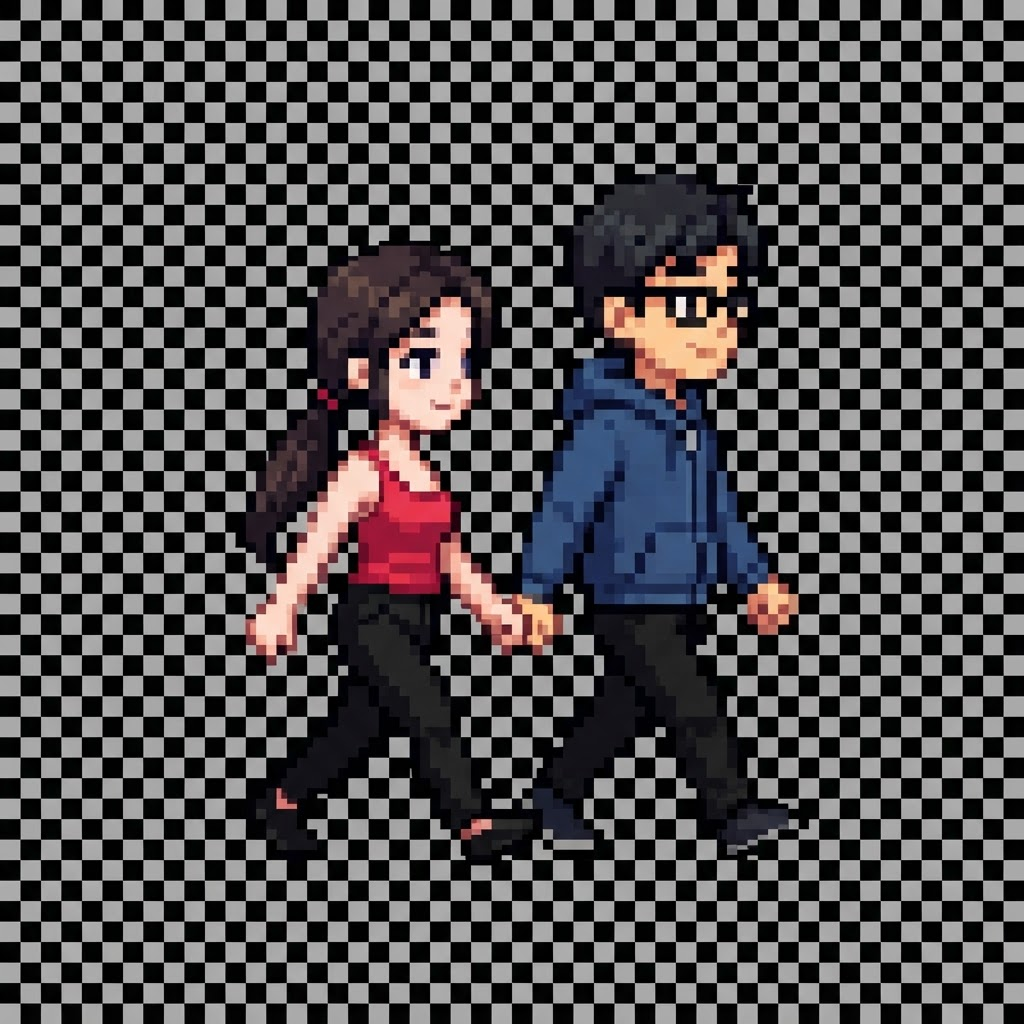
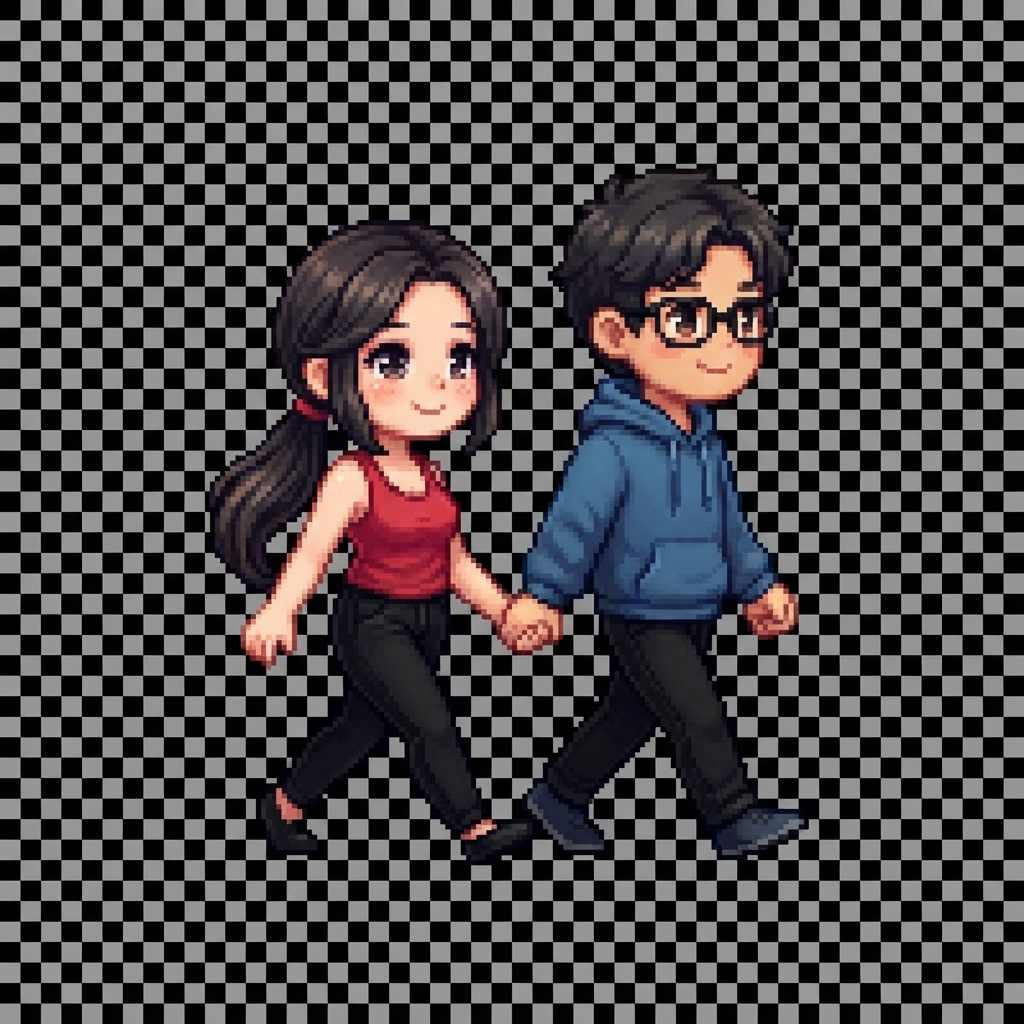
feat(D3): 接入 couple_walk_a 单帧走路 sprite (细腻可爱像素风)
- HTML: .mall-couple 内两张 idle 立绘 → 单张 couple_walk_a.png
- CSS: 高度 32%→38% (走路 sprite 需要更多空间), image-rendering: pixelated
- 备份原 walk_a v1 供后续对比

diff --git a/index.html b/index.html
@@ -1264,19 +1264,18 @@
   /* 两人小模型 */
   .mall-couple {
     position: absolute;
-    bottom: 20%;
-    height: 32%;
-    display: flex;
-    gap: 0.4vw;
+    bottom: 18%;
+    height: 38%;
+    display: block;
     transform: translateX(0);
     transition: transform 0.05s linear;
     pointer-events: none;
     filter: drop-shadow(0 4px 6px rgba(0,0,0,0.4));
   }
-  .mall-couple img {
+  .mall-couple-img {
     height: 100%;
     width: auto;
-    image-rendering: auto;
+    image-rendering: pixelated;
   }
   /* 玩家的判定圈（跟随鼠标 + 被强制左飘） */
   .mall-cursor {
@@ -1641,8 +1640,7 @@
       </div>
       <!-- 两人小模型（跟着走） -->
       <div class="mall-couple" id="mall-couple">
-        <img class="mall-heroine" src="assets/characters/heroine_idle.png" alt="女主" />
-        <img class="mall-hero"    src="assets/characters/hero_idle.png"    alt="男主" />
+        <img class="mall-couple-img" src="assets/couple_walk_a.png" alt="两人走路" />
       </div>
     </div>
     <!-- 玩家用鼠标控制的判定圈：会被强制左飘 -->

diff --git a/scripts/gen_d3_mall_assets.py b/scripts/gen_d3_mall_assets.py
@@ -160,39 +160,59 @@ def gen_bg_bedroom_empty():
     )
 
 def gen_couple_walk(frame: str):
-    """走路循环帧（侧视图，朝左走）。frame='a' 左脚在前；'b' 右脚在前。
-       'a' 是原始基准帧（用户已认可），'b' 用 'a' 作参考保持一致性。"""
+    """走路（侧视图，朝左走）。当前只用 frame='a' 做单帧静态版。"""
     if frame == 'a':
         gen(
             prompt=(
-                "Two chibi pixel-art game characters walking side by side in SIDE VIEW, "
-                "BOTH FACING LEFT (moving to the left of the frame). Full body visible. "
+                "Reproduce the SAME TWO CHARACTERS as in the reference image (same girl in cherry-red tank "
+                "top with low ponytail, same boy in blue hoodie with black-framed glasses, same outfits, "
+                "same colors, same proportions, same walking-together side view facing LEFT). "
                 ""
-                "CHARACTER A (LEFT, in FRONT — closer to camera): "
-                "A cute young girl with a long low ponytail (dark brown hair with subtle highlights). "
-                "Wearing a CHERRY-RED tank top (vivid cherry red — not wine, not pink). "
-                "Black long pants. No glasses. Slender, chibi proportions. "
-                "Pretty face with big anime eyes, soft pink blushing cheeks, tiny cute smile. "
+                "But upgrade the art quality significantly: "
+                "- HIGHER resolution pixel art with much finer detail (denser pixel grid, softer anti-aliasing) "
+                "- SOFTER, ROUNDER, CUTER face designs — bigger sparkly anime-style eyes, gentle rounded cheeks "
+                "  with tiny pink blush, small warm smiles "
+                "- More refined hair strand detail (subtle highlights and flowing shape) "
+                "- Cleaner cloth folds on the tank top and hoodie "
+                "- Warmer, more saturated color palette while keeping colors identical to reference "
+                "  (cherry-red tank, medium blue hoodie, black pants) "
+                "- Chibi proportions slightly more stylized (~4-4.5 heads tall) — cute and heartwarming "
                 ""
-                "CHARACTER B (RIGHT, one step BEHIND): "
-                "A cute young man in a BLUE HOODIE (hood down, unzipped a bit), BLACK pants, "
-                "BLACK-FRAMED GLASSES, short dark hair with slight fluff. "
-                "Slightly taller than the girl. Warm friendly smile. "
+                "Both characters walking side by side facing LEFT, mid-stride, "
+                "girl slightly in front (closer to camera), boy one step behind on the right. "
+                "They look happy and relaxed, possibly gently holding hands. "
                 ""
-                "They are walking together, arms swinging naturally, holding hands lightly if possible. "
-                "The girl's LEFT foot is forward and her right foot is back (mid-stride). "
-                "The boy's LEFT foot is forward and his right foot is back (mid-stride). "
+                "Style reference tone: 'high-detail pixel art visual novel character sprite, "
+                "modern Stardew Valley portrait mod quality, chibi and cute'. "
                 ""
-                "Style: HIGH-DETAIL PIXEL ART, refined and delicate (NOT low-res chunky pixels), "
-                "chibi proportions (~4.5 heads tall), soft rounded outlines, warm saturated palette, "
-                "cute anime-style faces. FULLY TRANSPARENT BACKGROUND (alpha channel). "
-                "No shadow on ground. No text. Just the two-character pair as a game sprite. "
-                "Similar polish and cuteness to modern Stardew Valley portrait mods."
+                "FULLY TRANSPARENT BACKGROUND (alpha channel). No shadow on ground. No text. "
+                "Just the two-character pair as a game sprite."
             ),
             out_path=ASSETS / "couple_walk_a.png",
-            refs=[CHARS / "heroine_idle.png", CHARS / "hero_idle.png"],
+            refs=[ASSETS / "couple_walk_a.png"],
         )
     else:
+        gen(
+            prompt=(
+                "Reproduce the same two chibi pixel-art characters EXACTLY as in the reference image "
+                "(same girl in cherry-red tank top with low ponytail, same boy in blue hoodie with glasses). "
+                "Same art style, same proportions, same colors, same faces, same outfits. "
+                ""
+                "The ONLY differences from the reference: "
+                "(1) Both characters' LEG POSITIONS are SWAPPED — this is the NEXT frame of a walk cycle. "
+                "The girl's RIGHT foot is now forward and her left foot is back (mid-stride). "
+                "The boy's RIGHT foot is now forward and his left foot is back (mid-stride). "
+                "(2) Their arms swing slightly in the opposite direction accordingly. "
+                ""
+                "Everything else (facing direction — still facing LEFT, camera angle, character designs, "
+                "hair, outfits, faces, expressions, art style, resolution) MUST match the reference image. "
+                ""
+                "HIGH-DETAIL PIXEL ART, refined and delicate, cute anime-style faces. "
+                "FULLY TRANSPARENT BACKGROUND. No shadow. No text."
+            ),
+            out_path=ASSETS / "couple_walk_b.png",
+            refs=[ASSETS / "couple_walk_a.png"],
+        )
         gen(
             prompt=(
                 "Reproduce the same two chibi pixel-art characters EXACTLY as in the reference image "
